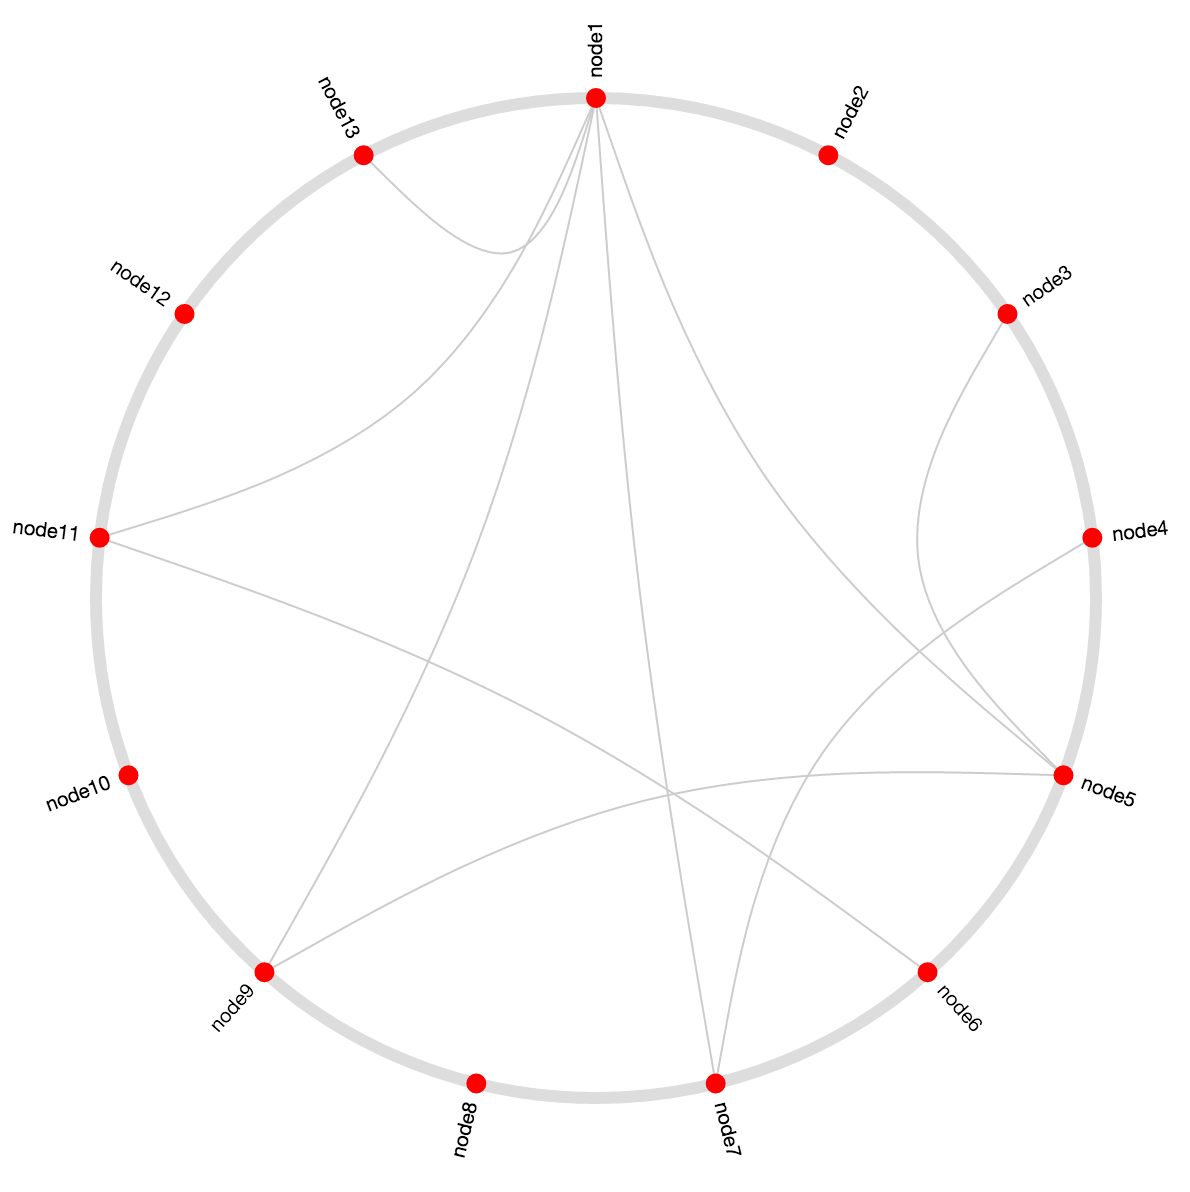
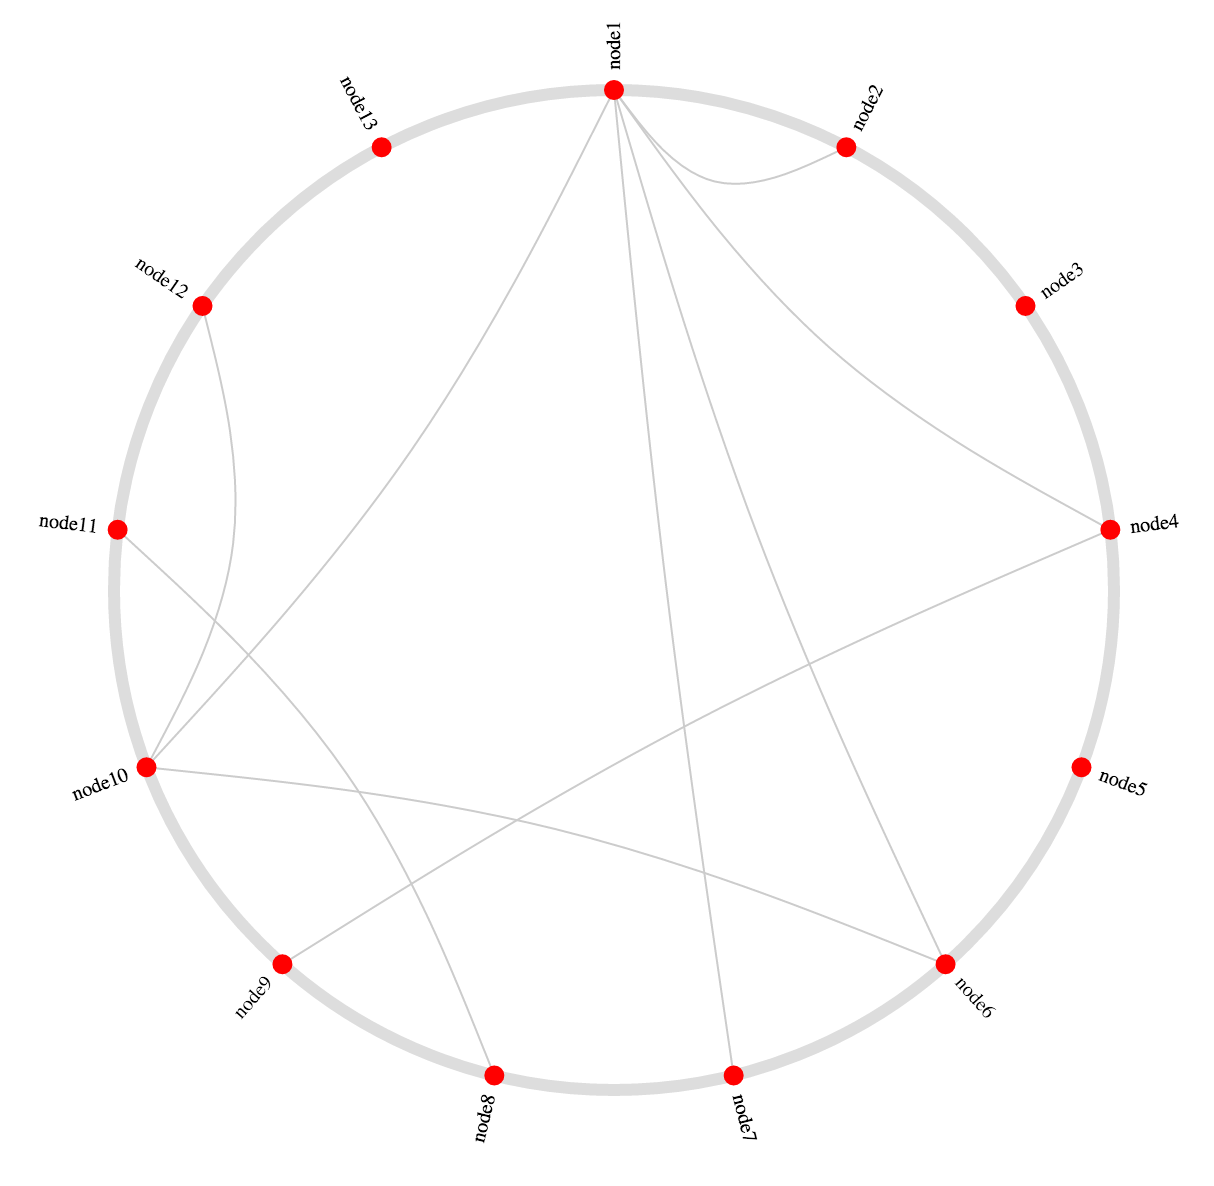
add radians to nodes, fixed labeling in demo

diff --git a/demo.html b/demo.html
@@ -51,7 +51,7 @@ var edges = [
   { source: 'node1', target: 'node2' },
   { source: 'node1', target: 'node4' },
   { source: 'node1', target: 'node6' },
-  { source: 'node1', target: 'node8' },
+  { source: 'node1', target: 'node7' },
   { source: 'node1', target: 'node10' },
   { source: 'node9', target: 'node4' },
   { source: 'node10', target: 'node6' },
@@ -71,7 +71,7 @@ var svg = d3.select('body')
   .attr('width', outerRadius * 2)
   .attr('height', outerRadius * 2)
   .append('g')
-  .attr('transform', 'translate(' + outerRadius + ', ' + outerRadius + ') rotate(180)');
+  .attr('transform', 'translate(' + outerRadius + ', ' + outerRadius + ')');
 
 // draw main circle
 svg.append('circle')
@@ -104,16 +104,16 @@ svg.selectAll('text.node')
     .classed('node', true)
     .attr({
       'text-anchor': function (d) {
-        return (d.degrees > 180) ? 'end' : 'begin';
+        return (Math.sin(d.radians) < 0) ? 'end' : 'begin';
       },
       dy: '0.3em',
       dx: function(d) {
-        return (d.degrees > 180) ? '-1em' : '1em';
+        return (Math.sin(d.radians) < 0) ? '-1em' : '1em';
       },
       transform: function (d) {
-        var degrees = d.degrees + 90;
+        var degrees = -d.degrees + 90;
         var xTranslate = radius;
-        if (d.degrees > 180) {
+        if (Math.sin(d.radians) < 0) {
           degrees -= 180;
           xTranslate *= -1;
         }

diff --git a/circleGraph.js b/circleGraph.js
@@ -58,12 +58,12 @@
         nodes.forEach(function(n, i) {
 
           // calculate radians
-          var radians = i * radianSeparation;
-          n.degrees = radiansToDegrees(radians);
+          n.radians = Math.PI - i * radianSeparation;
+          n.degrees = radiansToDegrees(n.radians);
 
           // set x and y based on radians and radius
-          n.x = Math.round(Math.sin(radians) * radius * 100)/100;
-          n.y = Math.round(Math.cos(radians) * radius * 100)/100;
+          n.x = Math.round(Math.sin(n.radians) * radius * 100)/100;
+          n.y = Math.round(Math.cos(n.radians) * radius * 100)/100;
 
           // add to map
           nodeMap[ nodeKeyAccessor(n) ] = n;

diff --git a/README.md b/README.md
@@ -40,7 +40,7 @@ var layout = d3.layout.circleGraph()
   .edges(myEdges);
 ```
 
-The node objects will be endowed with `x`, `y`, and `degrees` properties. These can be used to visualize the graph as a circle.
+The node objects will be endowed with `x`, `y`, `radians`, and `degrees` properties. These can be used to visualize the graph as a circle.
 
 The edge objects will be endowed with a `coords` property, which is an array of three coordinates: the source node point, the center of the circle (as a control point), and the target node point.
 
